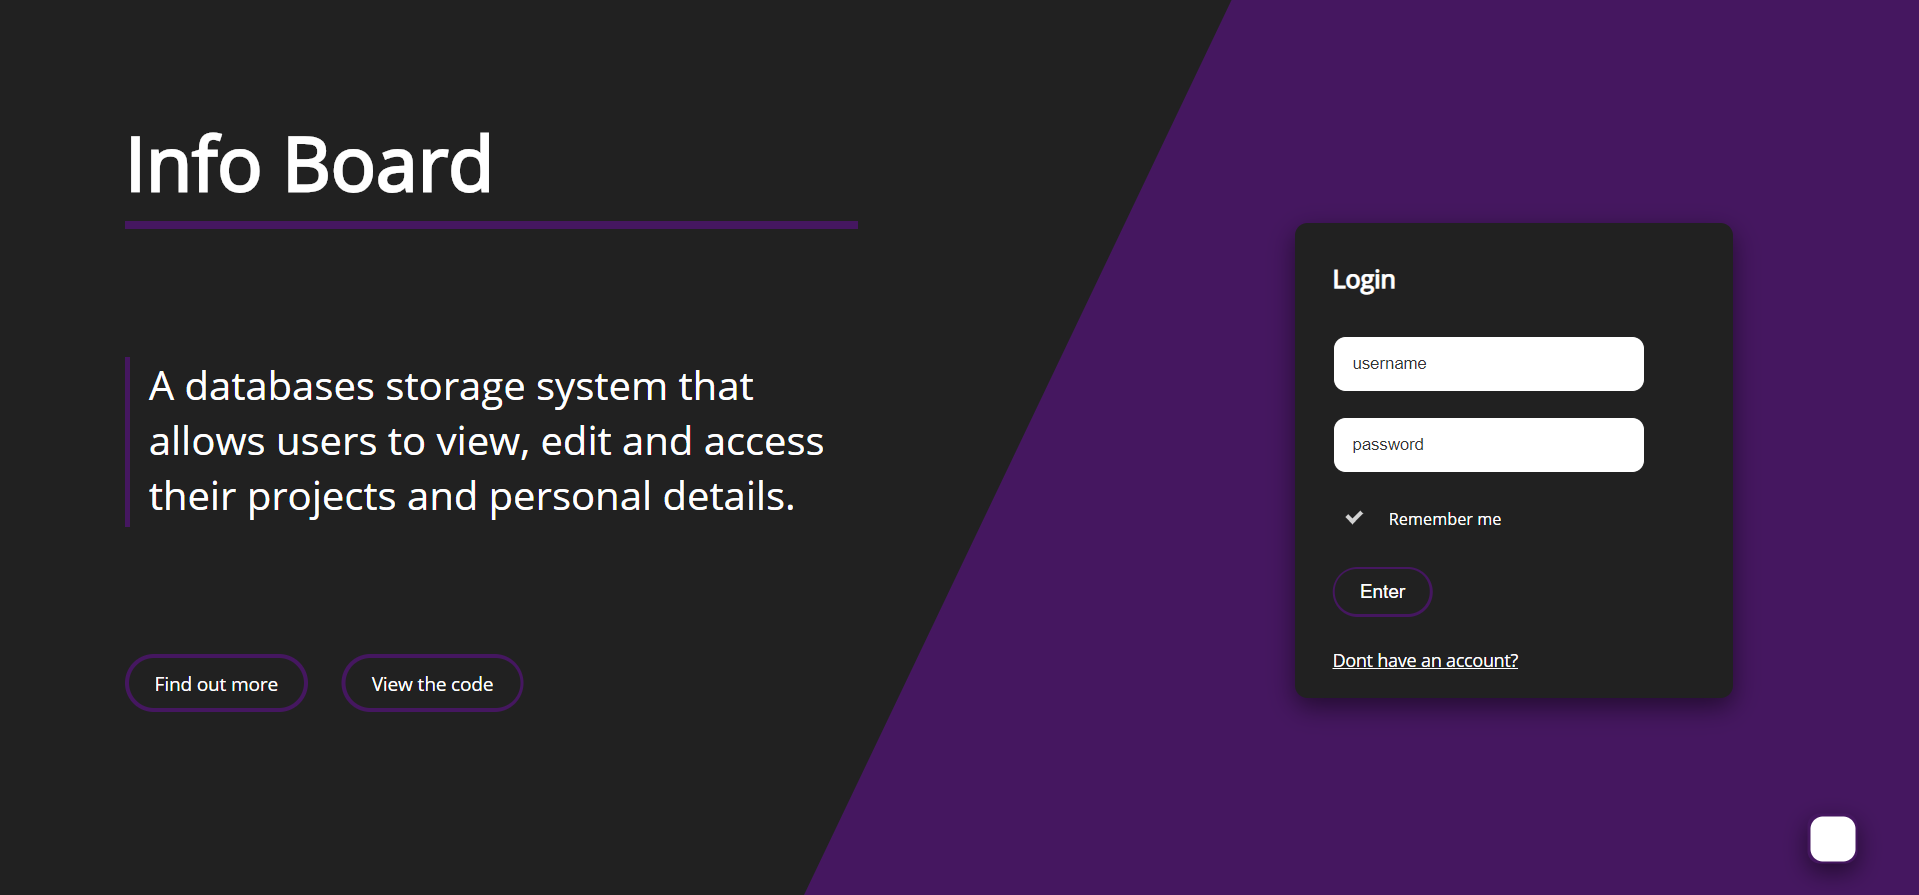
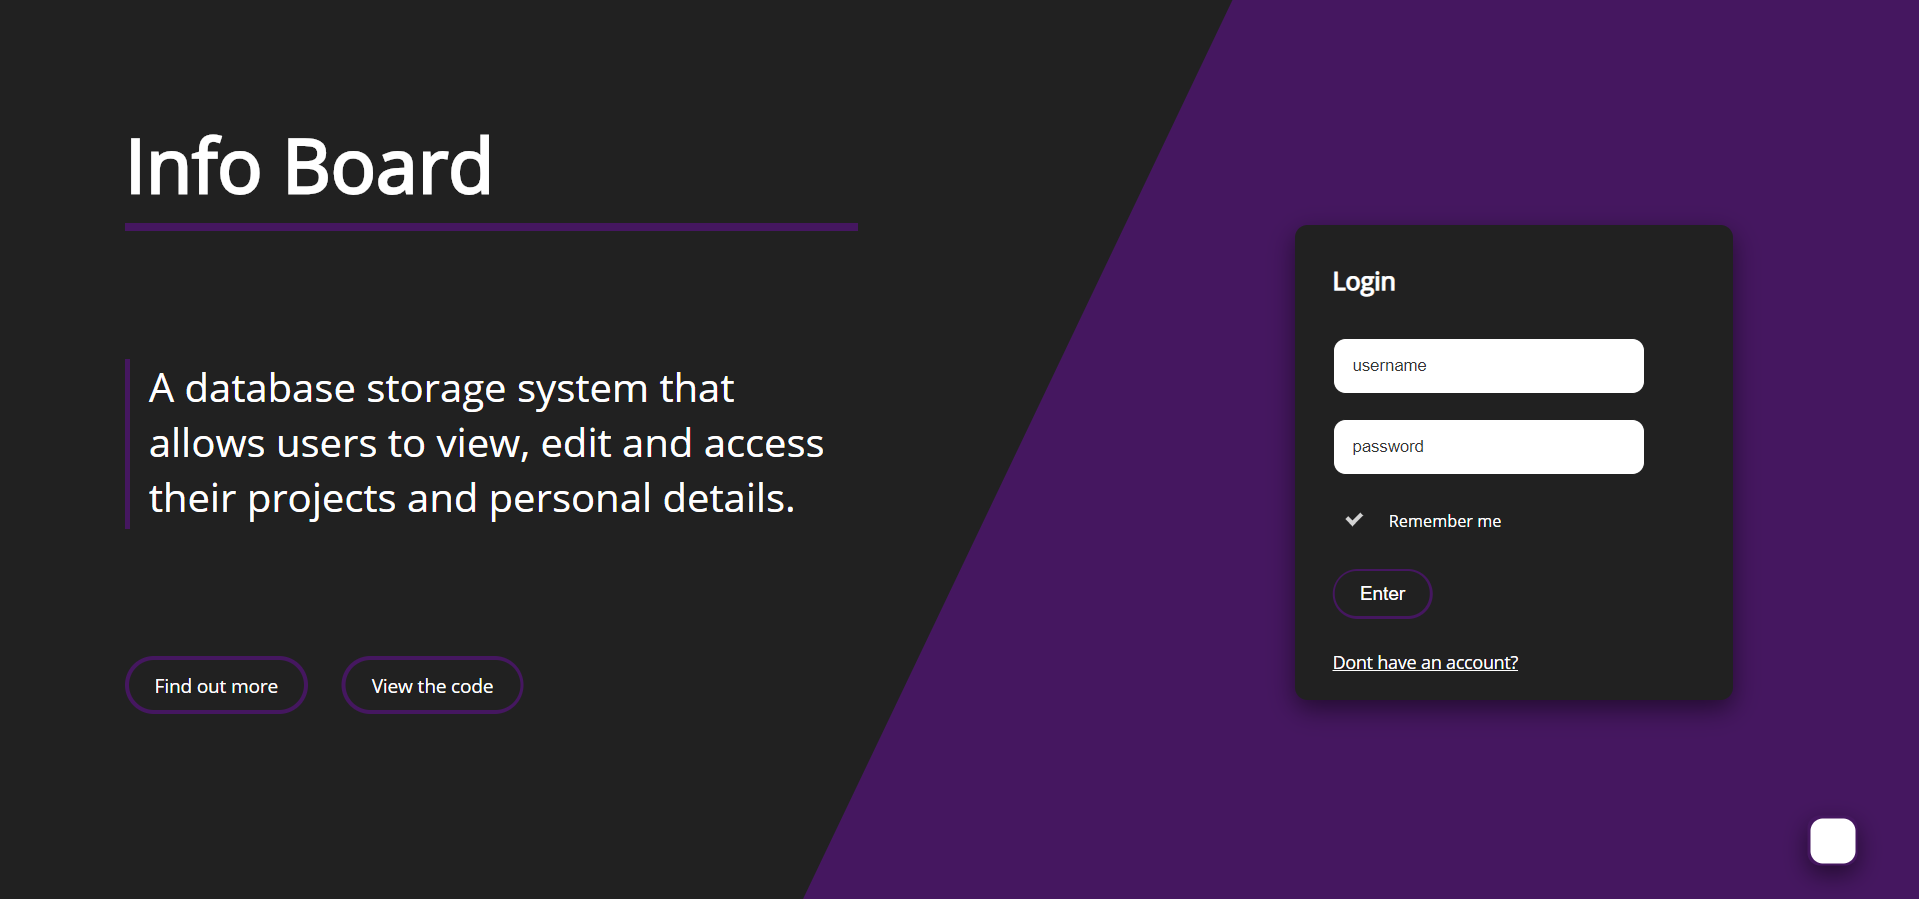
Fixed spelling error

diff --git a/index.html b/index.html
@@ -10,7 +10,7 @@
   <body class="font">
     <div class="polygon">
       <h1 class="title">Info Board</h1>
-      <p class="description">A databases storage system that allows users to view, edit and access their projects and personal details.</p>
+      <p class="description">A database storage system that allows users to view, edit and access their projects and personal details.</p>
       <a class="find" href="/history"><span>Find out more</span></a>
       <a class="code" href="#"><span>View the code</span></a>
     </div>
